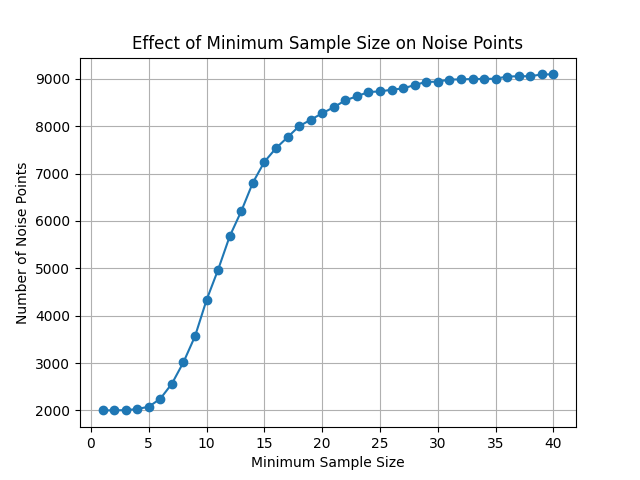
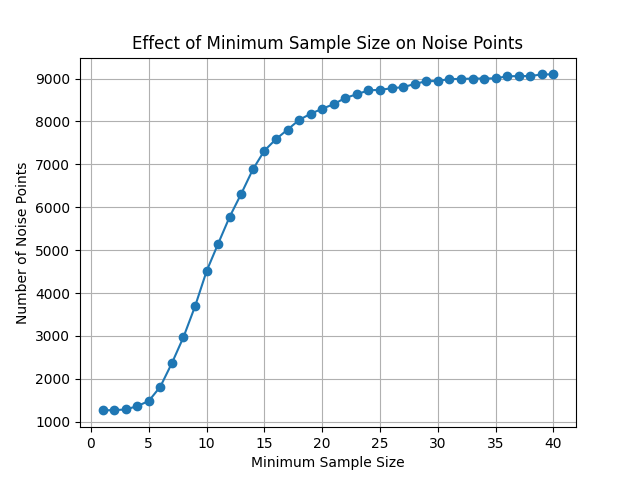
reevaluated clusters

diff --git a/evaluate_clusters.py b/evaluate_clusters.py
@@ -22,7 +22,7 @@ eps_deg_range = np.arange(1, 5, delta_eps)
 delta_min_samples = 1
 min_samples_range = np.arange(1, 41, delta_min_samples)
 delta_min_total_weights = 0.01
-min_total_weights_range = np.arange(0.0, 0.5, delta_min_total_weights)
+min_total_weights_range = np.arange(0.0, 1, delta_min_total_weights)
 
 def evaluate_dbscan_parameters(eps_deg, min_samples, min_total_weights):
     stars, vectors, fluxes = load_star_vectors_from_csv("asu_clusters.csv")
